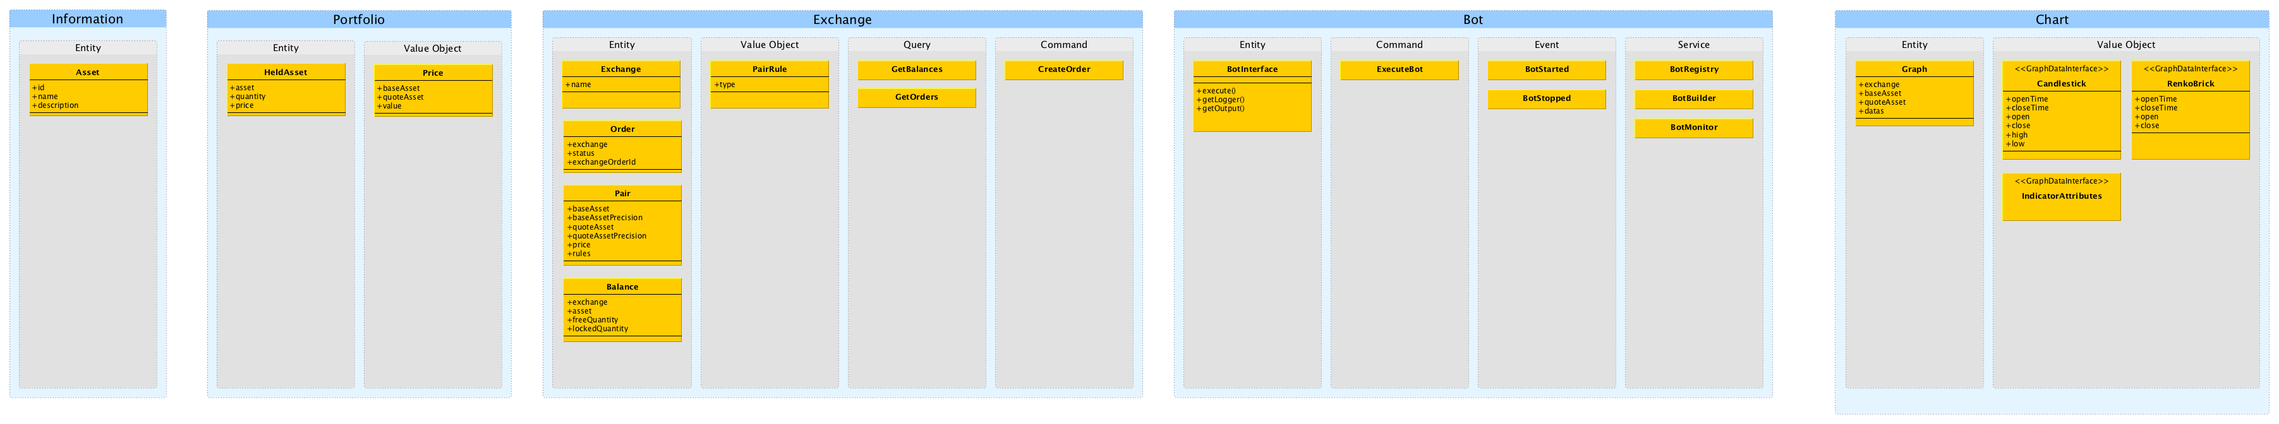
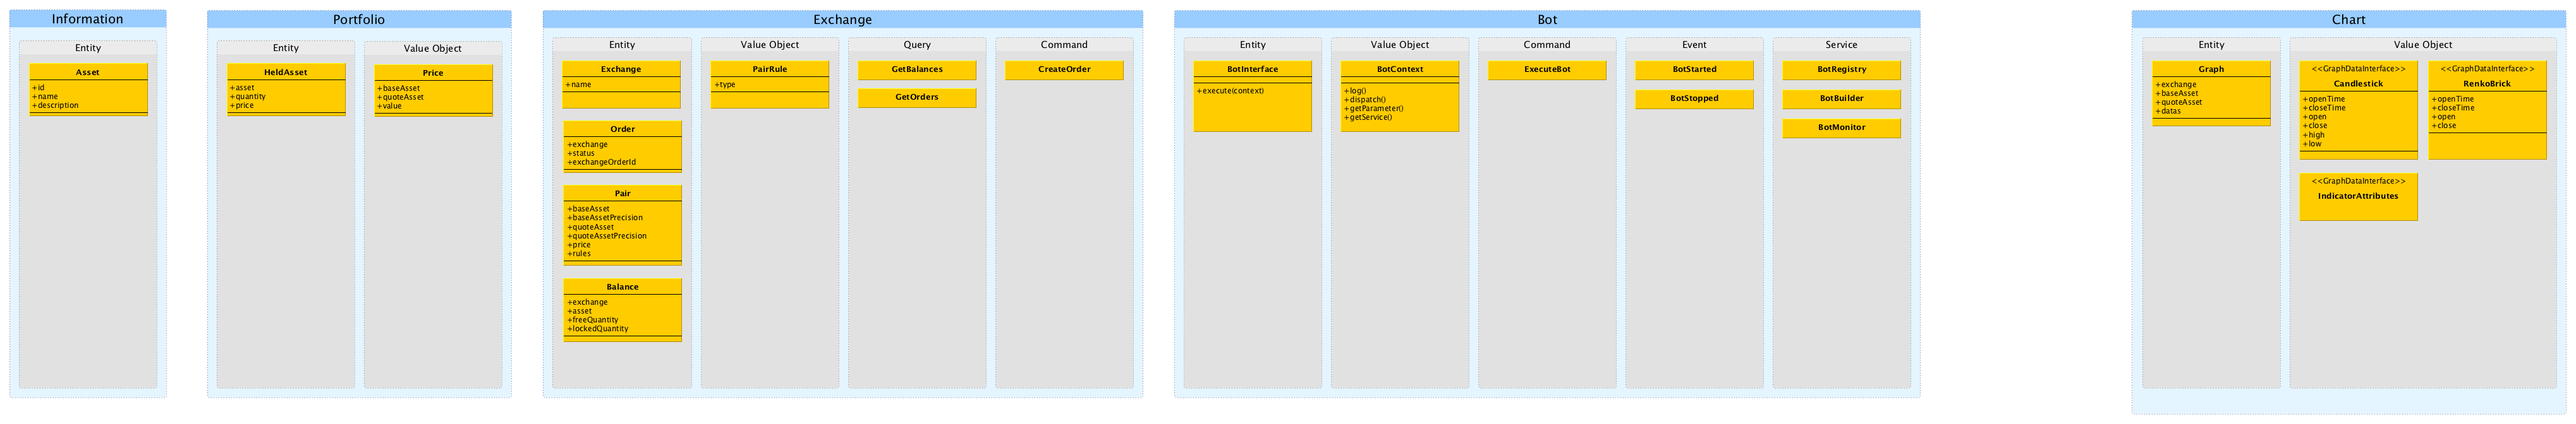
Add bot context and dedicated service container

diff --git a/src/application/command/ExecuteBot.js b/src/application/command/ExecuteBot.js
@@ -1,17 +1,27 @@
 /* @flow */
 import ContainerAwareCommand from "solfegejs-cli/lib/Command/ContainerAwareCommand"
-import type BotBuilder from "../../domain/bot/service/BotBuilder"
+import type DomainExecuteBot from "../../domain/bot/command/ExecuteBot"
 
 /**
  * Run a bot
  */
 export default class ExecuteBot extends ContainerAwareCommand
 {
-    constructor(builder:BotBuilder)
+    /**
+     * Execute bot command from domain
+     */
+    domainCommand:DomainExecuteBot;
+
+    /**
+     * Constructor
+     *
+     * @param   {DomainExecuteBot}  domainCommand   Execute bot command from domain
+     */
+    constructor(domainCommand:DomainExecuteBot)
     {
         super();
 
-        this.builder = builder;
+        this.domainCommand = domainCommand;
     }
 
     /**
@@ -29,13 +39,11 @@ export default class ExecuteBot extends ContainerAwareCommand
     async execute(parameters:Array<string>)
     {
         if (parameters.length <= 0) {
-            throw new Error("Please provide a bot identifier");
+            throw new Error("Please provide a bot name");
         }
 
-        const botId = parameters.shift();
-        const bot = await this.builder.build(botId);
+        const name = parameters.shift();
 
-        console.info(`Execute ${botId} ...`);
-        await bot.execute();
+        await this.domainCommand.execute(name);
     }
 }

diff --git a/src/domain/bot/command/ExecuteBot.js b/src/domain/bot/command/ExecuteBot.js
@@ -1,0 +1,44 @@
+/* @flow */
+import type BotBuilder from "../service/BotBuilder"
+import type BotContextBuilder from "../service/BotContextBuilder"
+
+/**
+ * Execute a bot
+ */
+export default class ExecuteBot
+{
+    /**
+     * Bot builder
+     */
+    builder:BotBuilder;
+
+    /**
+     * Bot context builder
+     */
+    contextBuilder:BotContextBuilder;
+
+    /**
+     * Constructor
+     *
+     * @param   {BotBuilder}        builder         Bot builder
+     * @param   {BotContextBuilder} contextBuilder  Bot context builder
+     */
+    constructor(builder:BotBuilder, contextBuilder:BotContextBuilder)
+    {
+        this.builder = builder;
+        this.contextBuilder = contextBuilder;
+    }
+
+    /**
+     * Execute a bot
+     *
+     * @param   {string}    name        Bot name
+     * @param   {any}       parameters  Bot parameters
+     */
+    async execute(name:string, parameters:?any):Promise<void>
+    {
+        const bot = await this.builder.build(name);
+        const context = await this.contextBuilder.build();
+        await bot.execute(context);
+    }
+}

diff --git a/src/domain/bot/service/BotContextBuilder.js b/src/domain/bot/service/BotContextBuilder.js
@@ -1,0 +1,36 @@
+/* @flow */
+import {bind} from "decko"
+import type Container from "solfegejs-dependency-injection/src/ServiceContainer/Container"
+import BotContext from "../valueObject/BotContext"
+
+/**
+ * Build bot context
+ */
+export default class BotContextBuilder
+{
+    /**
+     * Bot service container
+     */
+    container:Container;
+
+    /**
+     * Constructor
+     *
+     * @param   {Container}     container   Bot service container
+     */
+    constructor(container:Container)
+    {
+        this.container = container;
+    }
+
+    /**
+     * Build a bot context
+     */
+    @bind
+    async build():Promise<BotContext>
+    {
+        let context:BotContext = new BotContext(this.container);
+
+        return context;
+    }
+}

diff --git a/src/domain/bot/entity/HelloWorld.js b/src/domain/bot/entity/HelloWorld.js
@@ -1,14 +1,15 @@
 /* @flow */
 import type {BotInterface} from "./BotInterface"
+import type BotContext from "../valueObject/BotContext"
 
 export default class HelloWorld implements BotInterface
 {
     /**
      * Execute the bot
      *
-     * @param   {Array}     parameters  Bot parameters
+     * @param   {BotContext}    context     Bot context
      */
-    async execute(parameters:Array<string>):void | Promise<void>
+    async execute(context:BotContext):void | Promise<void>
     {
         console.info("Hello world!");
     }

diff --git a/src/domain/bot/valueObject/BotContext.js b/src/domain/bot/valueObject/BotContext.js
@@ -1,0 +1,23 @@
+/* @flow */
+import type Container from "solfegejs-dependency-injection/src/ServiceContainer/Container"
+
+/**
+ * Bot context
+ */
+export default class BotContext
+{
+    /**
+     * Bot service container
+     */
+    container:Container;
+
+    /**
+     * Constructor
+     *
+     * @param   {Container}     container   Bot service container
+     */
+    constructor(container:Container)
+    {
+        this.container = container;
+    }
+}

diff --git a/src/domain/bot/entity/BotInterface.js b/src/domain/bot/entity/BotInterface.js
@@ -1,4 +1,5 @@
 /* @flow */
+import type BotContext from "../valueObject/BotContext"
 
 /**
  * Bot interface
@@ -8,8 +9,8 @@ export interface BotInterface
     /**
      * Execute the bot
      *
-     * @param   {Array}     parameters  Bot parameters
+     * @param   {BotContext}    context     Bot context
      */
-    execute(parameters:Array<string>):void | Promise<void>;
+    execute(context:BotContext):void | Promise<void>;
 }
 
